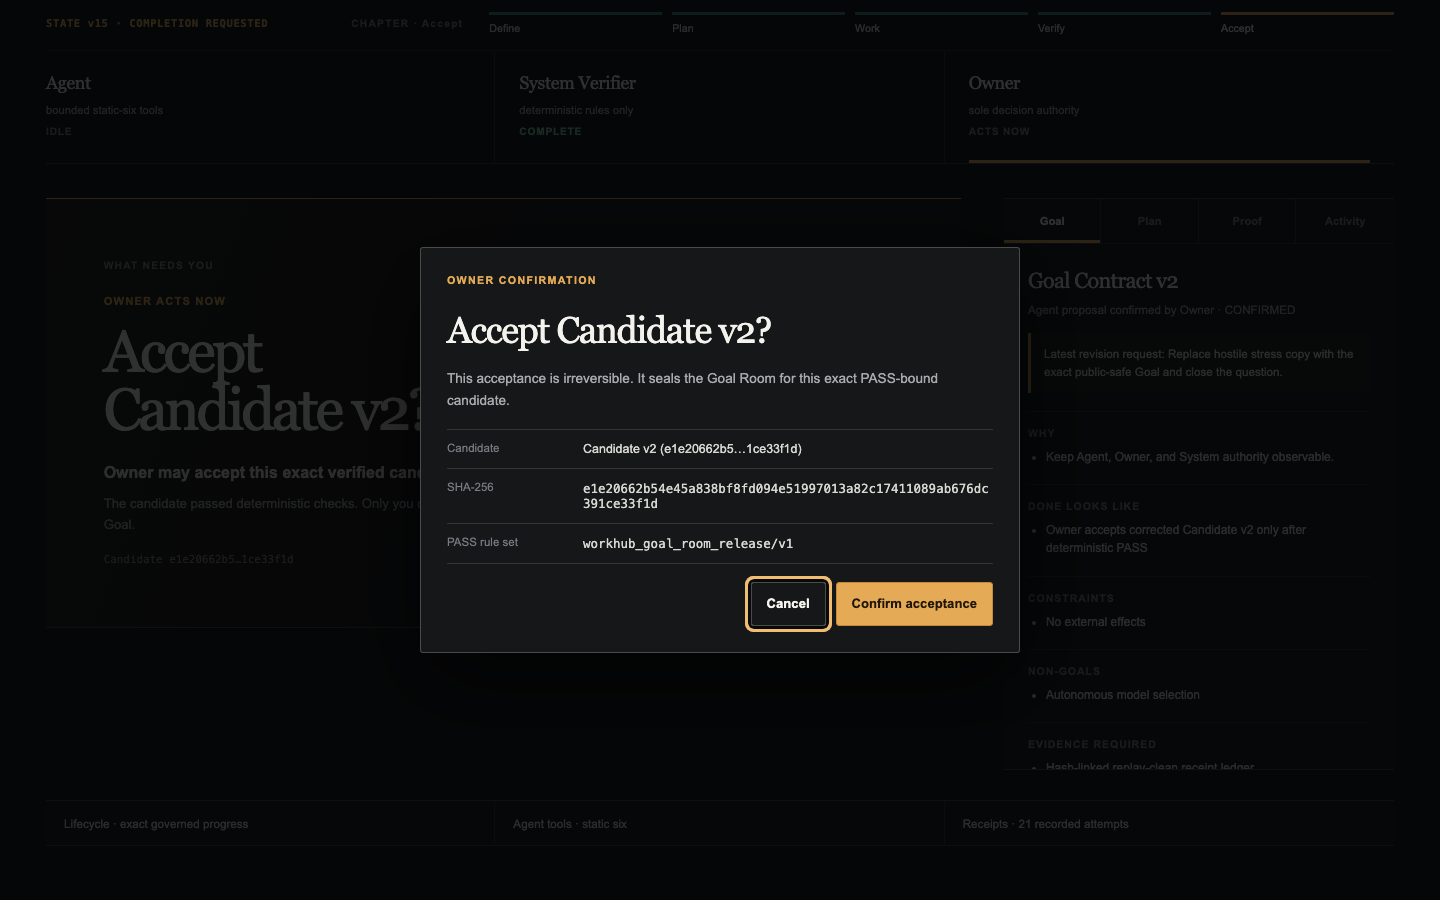
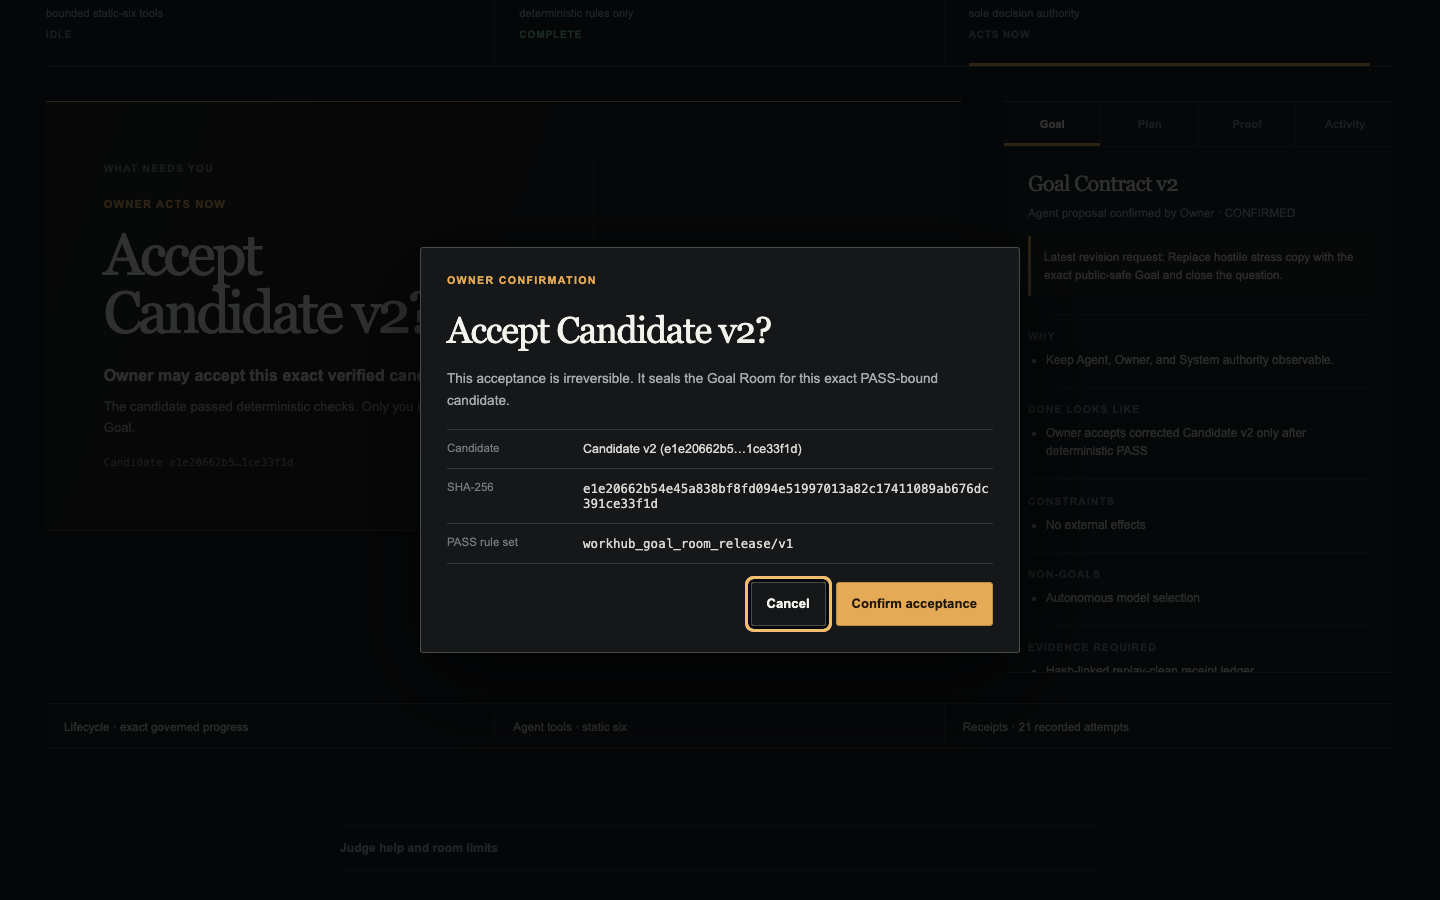
docs: close judge accessibility security and privacy gates

diff --git a/index.html b/index.html
@@ -3,6 +3,7 @@
   <head>
     <meta charset="UTF-8" />
     <meta name="viewport" content="width=device-width, initial-scale=1.0" />
+    <meta name="referrer" content="no-referrer" />
     <meta name="description" content="WorkHub Goal Room: one governed Goal, one truthful frontier, and final owner acceptance." />
     <title>WorkHub Goal Room | Mission Room</title>
   </head>
@@ -11,6 +12,17 @@
     <div class="desktop-surface">
       <main id="desktop-room" class="desktop-room" aria-label="WorkHub Goal Room desktop Mission Room"></main>
     </div>
+
+    <aside class="judge-help" aria-labelledby="judge-help-title">
+      <details>
+        <summary id="judge-help-title">Judge help and room limits</summary>
+        <div class="judge-help-copy">
+          <p>Use a qualifying ChatGPT in-app browser or Chrome/Canary with WebMCP support. State stays in this browser lifecycle. Reload starts a fresh room.</p>
+          <p>No login or credentials are required. The room has no external effects and demonstrates one synthetic Goal only. PASS is not owner acceptance.</p>
+          <p><a href="./SECURITY.md">Security scope</a> <a href="./PRIVACY.md">Privacy boundary</a></p>
+        </div>
+      </details>
+    </aside>
 
     <dialog id="revision-dialog" class="revision-dialog" aria-labelledby="revision-dialog-title">
       <form id="revision-form" method="dialog">

diff --git a/src/style.css b/src/style.css
@@ -32,6 +32,25 @@ button:disabled { cursor: wait; opacity: 0.58; }
 [hidden] { display: none !important; }
 h1, h2, h3, p, dl, dd { margin: 0; }
 
+.judge-help {
+  width: min(760px, calc(100% - 32px));
+  margin: 22px auto 40px;
+  color: var(--text-soft);
+}
+.judge-help details { border-top: 1px solid var(--line); border-bottom: 1px solid var(--line); }
+.judge-help summary {
+  min-height: 44px;
+  display: flex;
+  align-items: center;
+  color: var(--muted);
+  cursor: pointer;
+  font-size: 0.76rem;
+  font-weight: 700;
+}
+.judge-help-copy { display: grid; gap: 9px; padding: 0 0 16px; }
+.judge-help-copy p { font-size: 0.76rem; line-height: 1.55; }
+.judge-help-copy a { margin-right: 16px; color: #f0bd72; }
+
 /* Production uses one composition at a time. Mobile owns every viewport below 1200px. */
 .mobile-room { display: none; }
 
@@ -129,6 +148,7 @@ button:focus, textarea:focus, summary:focus, [tabindex]:focus {
 @media (max-width: 1199px) {
   html, body { max-width: 100%; overflow-x: clip; }
   .desktop-surface { display: none; }
+  .judge-help { margin-bottom: calc(176px + env(safe-area-inset-bottom)); }
   .mobile-room {
     display: block;
     width: min(100%, 780px);

diff --git a/src/mainProduction.test.ts b/src/mainProduction.test.ts
@@ -83,4 +83,17 @@ describe("production Goal inception UI", () => {
     expect(desktopUi).toContain("node.textContent = value");
     expect(desktopUi).toContain("event.text");
   });
+
+  it("publishes a keyboard-discoverable judge help boundary without a reset mutation", () => {
+    expect(html).toContain('<aside class="judge-help" aria-labelledby="judge-help-title">');
+    expect(html).toContain('<summary id="judge-help-title">Judge help and room limits</summary>');
+    expect(html).toContain("Reload starts a fresh room");
+    expect(html).toContain("PASS is not owner acceptance");
+    expect(html).not.toMatch(/reset[-_ ]room/i);
+  });
+
+  it("sends no referrer while leaving CSP absent until full qualifying-client proof exists", () => {
+    expect(html).toContain('<meta name="referrer" content="no-referrer" />');
+    expect(html).not.toMatch(/Content-Security-Policy/i);
+  });
 });

diff --git a/qualification/v3Infrastructure.test.ts b/qualification/v3Infrastructure.test.ts
@@ -57,4 +57,16 @@ describe("Goal Room V3 qualification infrastructure", () => {
       expect(read(path), path).not.toMatch(/[—–]/);
     }
   });
+
+  it("ships public security, privacy, manual accessibility, and validated Phase 5 evidence", () => {
+    for (const path of [
+      "SECURITY.md",
+      "PRIVACY.md",
+      "evaluation/manual-accessibility-v3.md",
+      "evaluation/phase5-qualification.json",
+      "scripts/phase5-validate.mjs",
+    ]) expect(existsSync(new URL(path, root)), path).toBe(true);
+    const packageJson = JSON.parse(read("package.json"));
+    expect(packageJson.scripts["qa:phase5"]).toBe("node scripts/phase5-validate.mjs");
+  });
 });

diff --git a/src/mobileUi.test.ts b/src/mobileUi.test.ts
@@ -13,7 +13,7 @@ describe("dedicated production iPhone composition", () => {
   it("has a separate mobile root while retaining the Phase 4 desktop surface", () => {
     expect(html).toContain('id="mobile-room"');
     expect(html).toContain('class="desktop-surface"');
-    expect(html).toContain('</main>\n    </div>\n\n    <dialog id="revision-dialog"');
+    expect(html.indexOf('</main>\n    </div>')).toBeLessThan(html.indexOf('<dialog id="revision-dialog"'));
     expect(main).toContain("createMobileSurface");
     expect(css).toContain("@media (max-width: 1199px)");
     expect(css).toContain(".desktop-surface { display: none;")

diff --git a/evaluation/manual-accessibility-v3.md b/evaluation/manual-accessibility-v3.md
@@ -1,0 +1,51 @@
+# Manual accessibility record, V3
+
+Date: 2026-08-28
+
+Production entry: local real `index.html` at `http://127.0.0.1:4175/`
+
+Platform: macOS 26.3 (25D125)
+
+Browser: Google Chrome Canary 154.0.8028.0, unsigned-in disposable profile
+
+## Evidence classes and claim limits
+
+This record keeps manual keyboard, actual VoiceOver, and automated browser/AX evidence separate. It does not claim full WCAG conformance.
+
+## Keyboard-only production journey
+
+The existing real-production journey exercised every authority transition through `src/main.ts`, the six captured production tool descriptors, visible Owner controls, automatic System verification, and the exact-candidate dialog. That automation used pointer dispatch for visible Owner controls and therefore is **not** relabeled as the required manual keyboard-only journey.
+
+The trusted-keyboard supporting checks exercised tab semantics and acceptance-dialog Tab, Shift+Tab, Escape, containment, and exact focus return at mobile and desktop sizes. Those checks are automated supporting evidence in `evaluation/v3/a11y.json`, not a complete manual keyboard journey.
+
+Result: the full manual keyboard-only production journey was not independently completed in this run. The keyboard gate remains limited to automated trusted-key evidence and the real-production transition evidence described above.
+
+## Actual VoiceOver run
+
+VoiceOver was actually running as `/System/Library/CoreServices/VoiceOver.app/Contents/MacOS/VoiceOver` (PID 32972 at the start of the bounded run). The Caption Panel was opened with Control-Option-Fn-Command-F10. A screen capture successfully recorded the panel, but macOS rendered the rest of the captured display black. The only directly observed Caption Panel strings were:
+
+- `Chrome Canary is launched in the background`
+- `Login failed`
+
+Commands actually exercised while VoiceOver was running included Control-Option-Shift-Down and Control-Option-Right after activating the exact disposable Canary production tab. Foreground routing repeatedly returned unverified delivery, and the Caption Panel did not move from the app/background announcement into page content. No permission dialog was accepted or bypassed.
+
+Because page-level speech/navigation was not directly observed, this record does **not** claim spoken proof for the initial intent, authority bands, Goal/Plan dialogs, FAIL, PASS, S13, or S14 checkpoints. CDP/AX evidence for those checkpoints remains supplementary only. VoiceOver was then quit directly and `pgrep` verified it absent before repository edits.
+
+Result: actual VoiceOver was enabled and bounded interaction was attempted, but the required page-level VoiceOver gate is inconclusive rather than passed.
+
+## Automated production and qualification evidence
+
+The existing widening evidence records:
+
+- one named main in each active composition and distinct desktop/mobile compositions;
+- named tabs and tabpanels, visible focus, exact dialog focus entry/containment/return;
+- S13 Candidate v2, full SHA-256 digest, PASS rule set, irreversible consequence, and sole Confirm mutation;
+- S14 `currentActor: none`, no owner-action button, and no legal continuation;
+- 200 percent zoom, reduced motion, 44 CSS pixel minimum controls, 320 pixel hostile content, safe-area docking, and zero unintended horizontal overflow;
+- literal hostile rendering with no injected node.
+
+Primary references: `evaluation/production-journey/journey.json`, `evaluation/v3/a11y.json`, `evaluation/v3/hostile.json`, and `evaluation/v3/responsive.json`.
+
+## Deferred baseline P2 labels
+
+Phase 4 baseline P2 labels remain carried without promotion: prior visual/workflow limitations and the known 621px desktop overflow historical label are evidence history, not newly introduced Phase 5 findings. This phase does not claim independent review or owner acceptance.

diff --git a/SECURITY.md b/SECURITY.md
@@ -1,0 +1,21 @@
+# Security Policy
+
+## Supported scope
+
+Security reports are accepted for the public WorkHub Goal Room competition edition in this repository. Open a private GitHub security advisory in the repository that published this edition. If that route is unavailable, open a public issue containing only a minimal, non-sensitive description and ask for a private reporting route. Do not post secrets, personal data, exploit payloads, or client data in an issue.
+
+## Demonstration boundary
+
+This is a browser-local synthetic demonstration, not an enterprise or production-security claim. It has no accounts, login, credentials, backend, server-side application storage, analytics, payments, deployment action, messaging action, or other external effect. Reload starts a fresh room.
+
+Use synthetic demonstration data only. Do not submit credentials, tokens, private URLs, private repository names, personal data, client data, regulated data, or confidential source material.
+
+The governed WebMCP surface requires a qualifying ChatGPT in-app browser or Chrome/Canary build with WebMCP support. Unsupported clients retain the Owner UI but cannot invoke the agent tools.
+
+## Known limitations
+
+- Browser-local logical actor separation is not cryptographic identity or hostile-filesystem isolation.
+- The static competition edition does not provide durable recovery or multi-user concurrency.
+- `Referrer-Policy: no-referrer` is set through HTML metadata.
+- A Content Security Policy is intentionally omitted because end-to-end GitHub Pages path behavior plus native WebMCP execution under a proposed policy was not proven in this phase.
+- PASS proves only the documented deterministic checks. It is not owner acceptance.

diff --git a/PRIVACY.md b/PRIVACY.md
@@ -1,0 +1,15 @@
+# Privacy Notice
+
+WorkHub Goal Room is a synthetic, static competition demonstration. Enter synthetic data only.
+
+## Data lifecycle
+
+Room state exists in browser memory for the current page lifecycle. Reloading the page starts a fresh room. The application does not implement accounts, login, credentials, cookies, IndexedDB, localStorage, sessionStorage, Cache Storage, or server-side application storage.
+
+The application does not implement analytics, advertising, third-party tracking, telemetry, payments, deployment, messaging, or other external effects. The tested production build is static HTML, CSS, and JavaScript. It can be served by a local static server or static hosting such as GitHub Pages.
+
+Automated production observation loaded only the expected same-origin document, module, and stylesheet assets. Static inspection found no third-party analytics/network client or browser persistence API in production source. Browser and hosting infrastructure may still make their own ordinary network requests under their separate policies; this notice describes the application code in this repository.
+
+## Do not enter
+
+Do not enter passwords, API keys, raw tokens, private URLs, private repository references, client data, personal data, regulated data, or confidential content. The public demonstration is not a secure data-processing environment.

diff --git a/README.md b/README.md
@@ -27,6 +27,12 @@ Define -> Plan -> Work -> Verify -> Accept
 
 A failed verification returns the active frontier to Evidence while retaining Verify as failed. A passing verification completes Verify and activates Complete; Accept remains pending until the agent requests completion. Only the owner can complete Accept.
 
+## Judge quick start and recovery
+
+Use a qualifying ChatGPT in-app browser or Chrome/Canary build with WebMCP support. The page requires no login or credentials, keeps one synthetic Goal in the current browser lifecycle, and performs no external effects. Reload starts a fresh room; there is intentionally no reset mutation control. `PASS` means the deterministic checks succeeded, not that the Owner accepted the Goal.
+
+The production page includes a keyboard-focusable **Judge help and room limits** disclosure. See [`SECURITY.md`](SECURITY.md), [`PRIVACY.md`](PRIVACY.md), and the evidence-limited [`evaluation/manual-accessibility-v3.md`](evaluation/manual-accessibility-v3.md).
+
 ## Governed WebMCP surface
 
 The Goal Room exposes exactly six browser-native agent tools:
